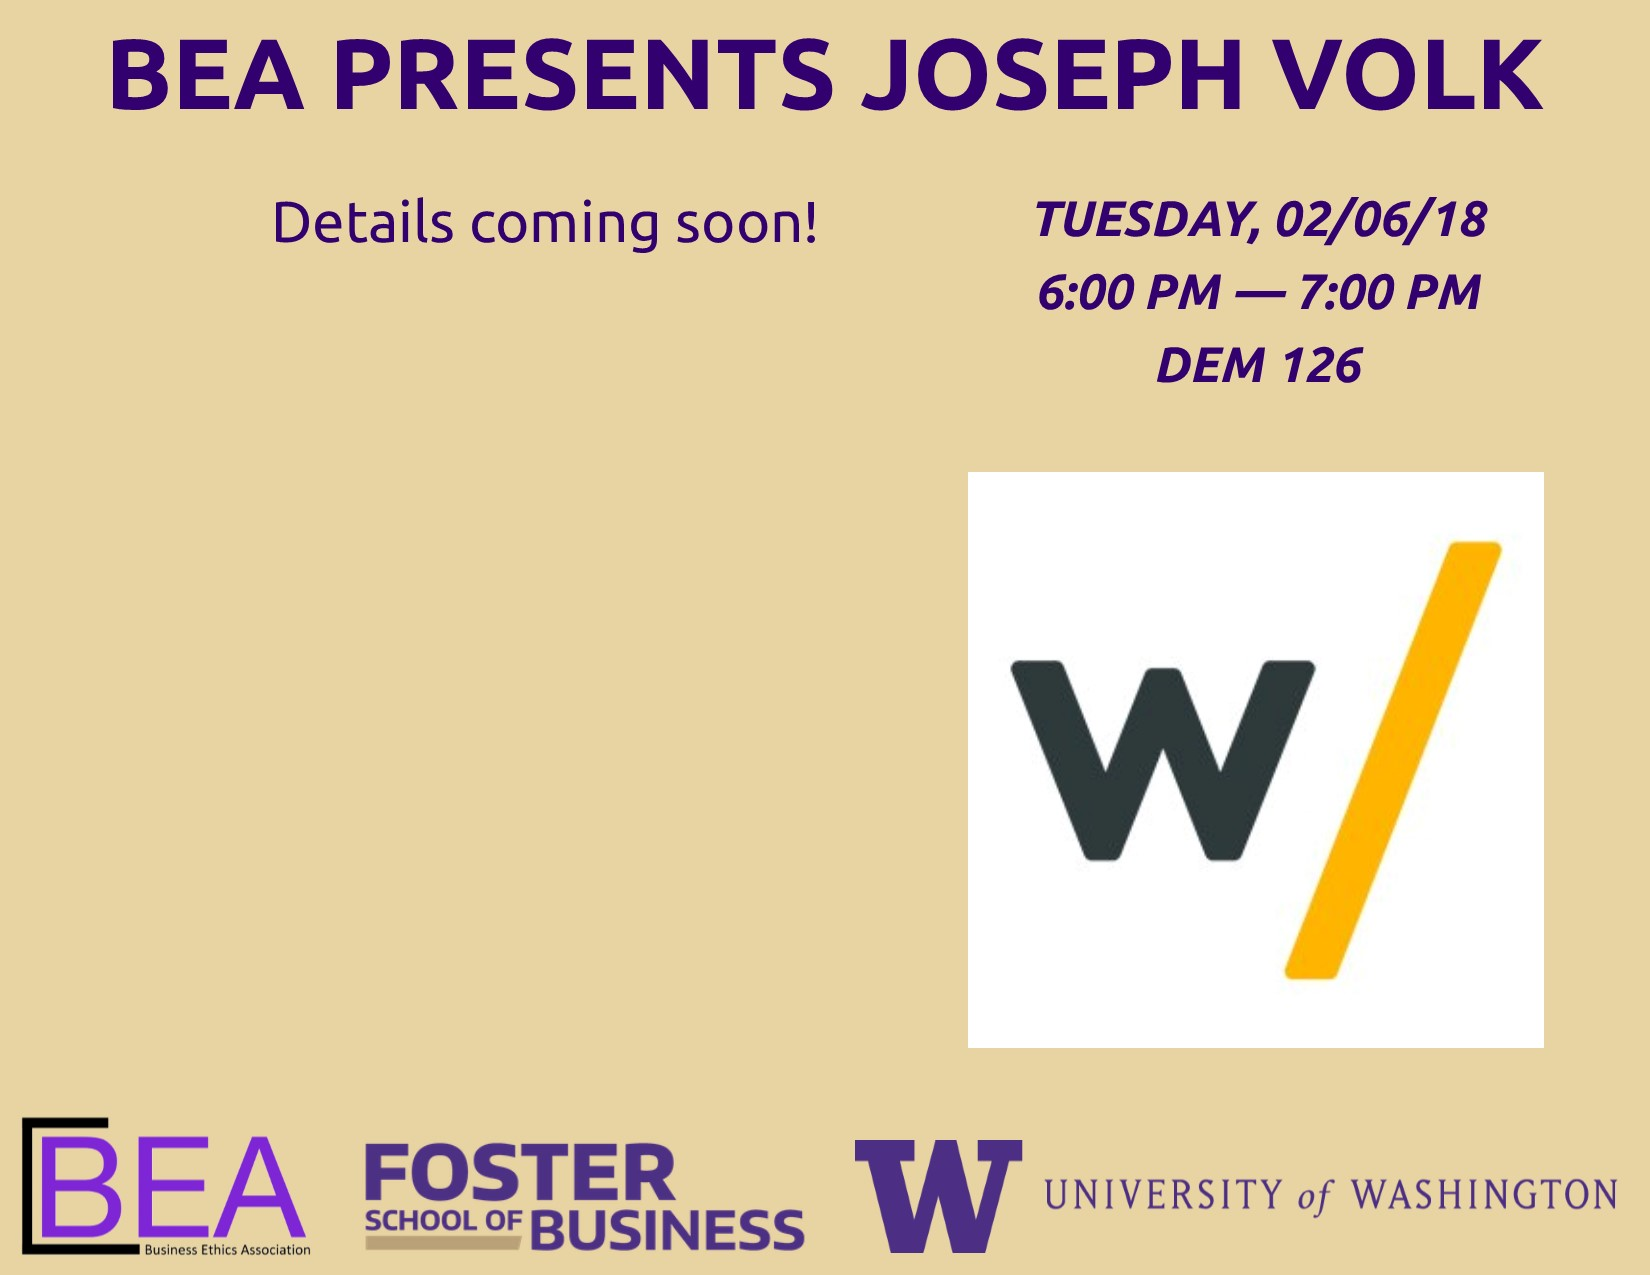
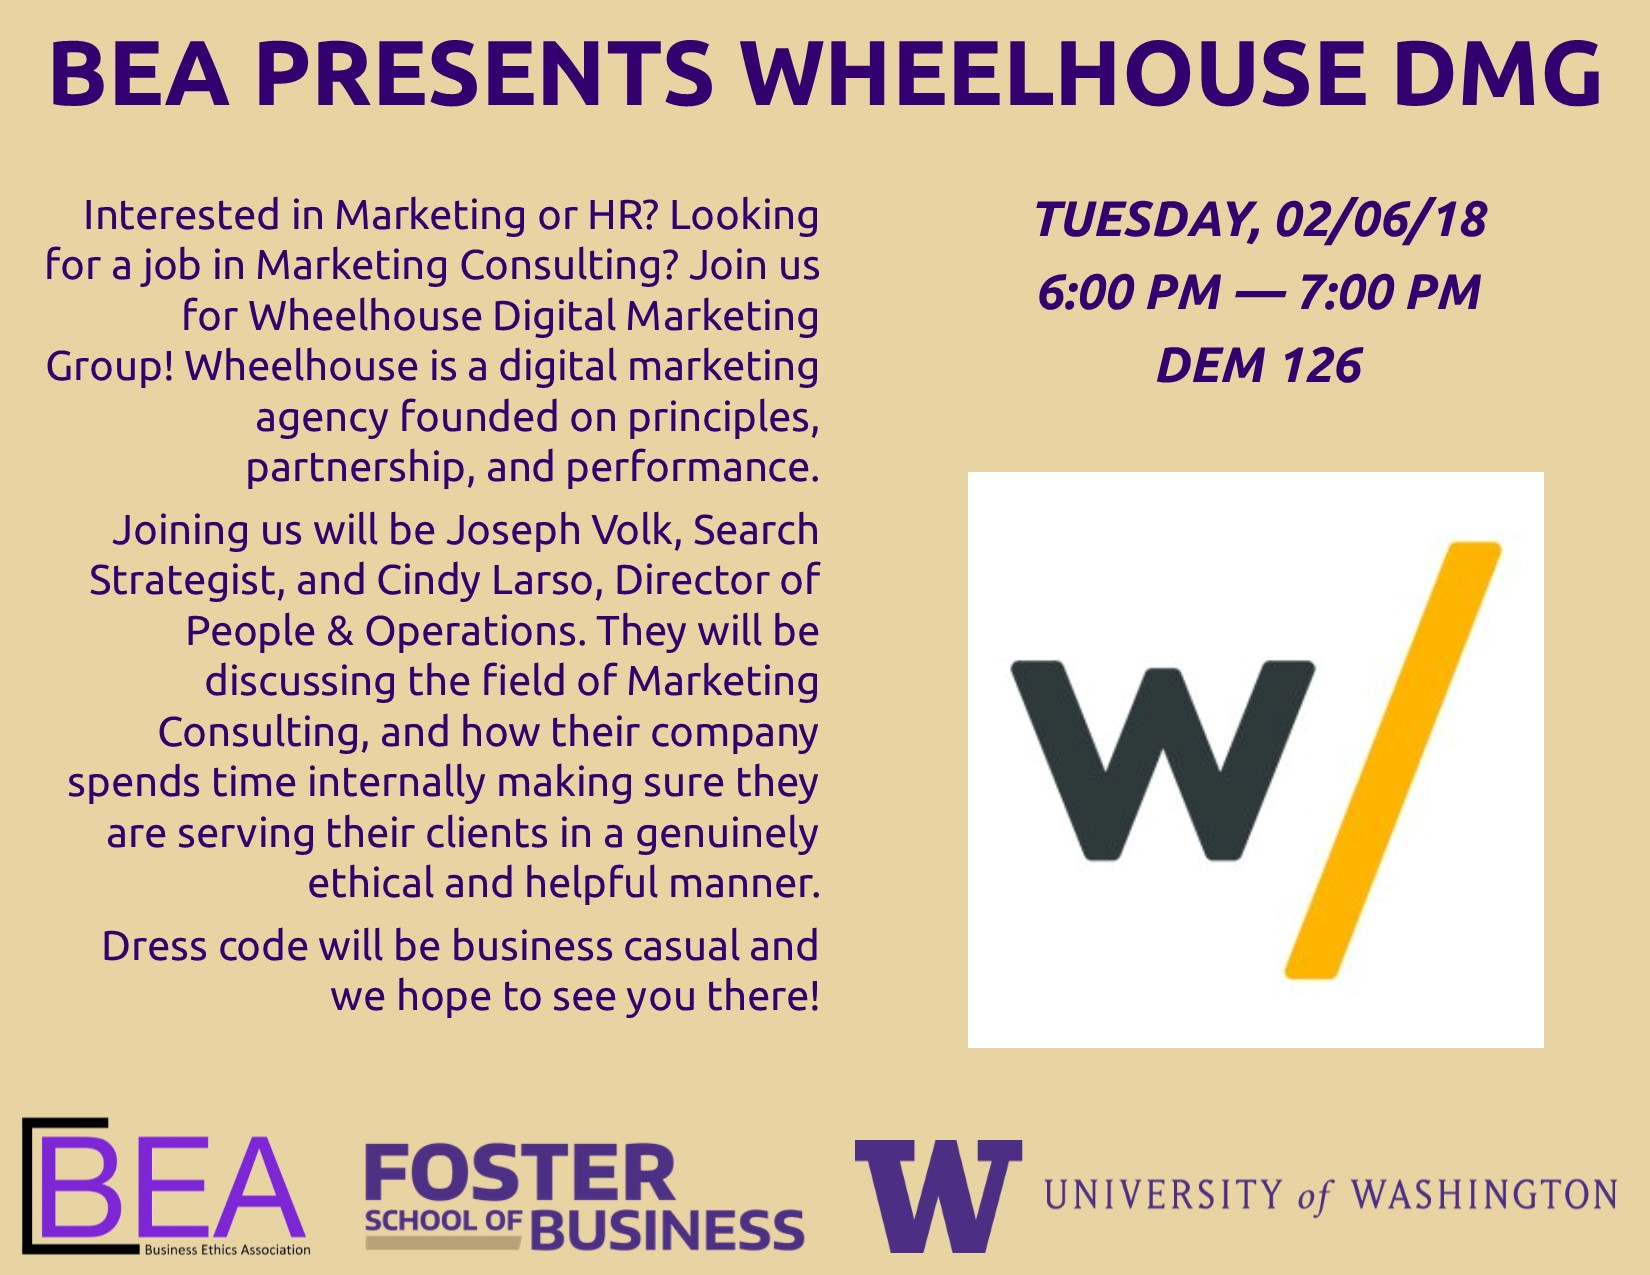
wheelhouse

Changed region(s): [[0.0309, 0.1529, 0.4945, 0.7035], [0.0309, 0.0306, 0.9891, 0.0918], [0.0618, 0.7341, 0.4945, 0.7953]]

diff --git a/templates/events.html b/templates/events.html
@@ -32,22 +32,22 @@
       <td id="past">DEM 126</td>
     </tr>
     <tr>
-      <td>Tuesday, January 30th</td>
-      <td>NO MEETING (Volunteer)</td>
-      <td>N/A</td>
-      <td>N/A</td>
+      <td id="past">Tuesday, January 30th</td>
+      <td id="past">NO MEETING (Volunteer)</td>
+      <td id="past">N/A</td>
+      <td id="past">N/A</td>
     </tr>
     <tr>
-      <td>Thursday, February 1st</td>
-      <td>Volunteer Event (Food Lifeline)</td>
-      <td>5:00 PM - 9:00 PM</td>
-      <td>Paccar Hall</td>
+      <td id="past">Thursday, February 1st</td>
+      <td id="past">Volunteer Event (Food Lifeline)</td>
+      <td id="past">5:00 PM - 9:00 PM</td>
+      <td id="past">Paccar Hall</td>
     </tr>
     <tr>
-      <td>Tuesday, February 6th</td>
-      <td>Speaker (Joseph Volk)</td>
-      <td>6:00 PM - 7:00 PM</td>
-      <td>DEM 126</td>
+      <td id="current">Tuesday, February 6th</td>
+      <td id="current"><a href="https://www.facebook.com/events/2089293581290229/">Speaker (Wheelhouse DMG)</a></td>
+      <td id="current">6:00 PM - 7:00 PM</td>
+      <td id="current">DEM 126</td>
     </tr>
     <tr>
       <td>Tuesday, February 13th</td>
